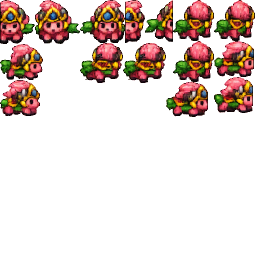
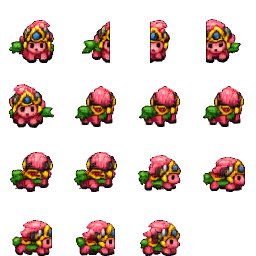
skin thu cuoi: luoi co dinh de du lieu frame khong bao gio doi nua
Anh chup cho thay hai con nam canh nhau trong mot khung chu nhat: client cat
mot vung qua lon tren atlas, tuc du lieu frame CU (o to, vi tri cu) ghep voi
anh MOI. Tang ALL_PART_EFF chi tu het han sau 200s khong ve nen dang nhap lai
nhanh la con giu du lieu cu.

Khong the bat nguoi choi cho 200s moi lan sua sprite, nen chuyen cach xep:
moi anh con chiem tron mot o 64x64 tren luoi 4x4 co dinh, dx = -32, dy = -64 +
{10, 8, 4} — toan hang so. Nho vay file du lieu frame giong nhau TUNG BYTE giua
ca 5 skin va giua moi lan lam lai sprite, du lieu cu con sot cung vo hai.

  md5sum map/d_effect/159 197 198 199 212 -> trung het

Ket hop voi goi -51 may chu tu day o commit truoc, tu gio doi sprite chi can
dang nhap lai. Rieng LAN NAY thi du lieu co doi (chuyen sang luoi moi) nen van
phai tat han app mot lan cuoi, hoac cho 4 phut roi vao lai.

Gia phai tra: con thu bi gioi han trong 64x64, va client blit tron o nen ve ca
phan trong suot — khong dang ke.

Khong sua file nao trong src/ nen jar giu nguyen.

diff --git a/tools/TaoEffThuCuoi.java b/tools/TaoEffThuCuoi.java
@@ -71,8 +71,17 @@ public class TaoEffThuCuoi {
     private static final int SO_GOC = 5;
     /** Toa do anh con luu bang byte khong dau nen atlas toi da 256x256. */
     private static final int ATLAS = 256;
-    /** Ti le chieu cao ma con thu tho xuong duoi toa do nhan vat: xuong, len, ngang. */
-    private static final double[] TI_LE_THO_XUONG = {0.22, 0.19, 0.10};
+    /** Canh mot o trong luoi co dinh, 4 cot x 4 dong = 256x256, du cho 15 anh. */
+    private static final int O = 64;
+    private static final int SO_COT = ATLAS / O;
+    /**
+     * So diem con thu tho xuong duoi toa do nhan vat: xuong, len, ngang.
+     *
+     * PHAI la hang so, khong duoc tinh theo chieu cao anh — xem giai thich o LUOI CO DINH.
+     * Ba so nay lay tu do dac linh thu that: Rong Bang tho xuong +18 / +24 / +5, heo bang
+     * +7 / +4 / +5.
+     */
+    private static final int[] THO_XUONG = {10, 8, 4};
 
     public static void main(final String[] args) throws Exception {
         if (args.length < 2) {
@@ -180,12 +189,12 @@ public class TaoEffThuCuoi {
         }
 
         // MOT co chuan cho CA 5 skin: thu nho sao cho frame cao nhat dung bang --cao.
-        // Neu 15 anh khong xep vua 256x256 thi ha dan cho vua, va in ra de biet.
+        // Frame nao vuot o 64x64 thi ha ti le cho vua.
         double tiLe = (double) caoDich / caoNhat;
-        BufferedImage[] anh = null;
-        int[][] oAnh = null;
+        BufferedImage[] anh;
         while (true) {
             anh = new BufferedImage[3 * SO_GOC];
+            int vuot = 0;
             for (int nhom = 0; nhom < 3; nhom++) {
                 for (int f = 0; f < SO_GOC; f++) {
                     final int[] k = khung[nhom][f];
@@ -195,14 +204,14 @@ public class TaoEffThuCuoi {
                     // luu san phai nhin sang trai.
                     if (lat && nhom == 2) nho = latNgang(nho);
                     if (damVien > 0) veVien(nho, damVien);
+                    if (nho.getWidth() > O || nho.getHeight() > O) vuot++;
                     anh[nhom * SO_GOC + f] = nho;
                 }
             }
-            oAnh = xepAtlas(anh);
-            if (oAnh != null) break;
+            if (vuot == 0) break;
             tiLe *= 0.96;
             if (tiLe < 0.02) {
-                System.out.println("Khong xep noi vao " + ATLAS + "x" + ATLAS);
+                System.out.println("Khong nhet noi vao o " + O + "x" + O);
                 return;
             }
         }
@@ -214,10 +223,34 @@ public class TaoEffThuCuoi {
             rongThuc = Math.max(rongThuc, a.getWidth());
         }
 
+        // ================= LUOI CO DINH =================
+        // Anh con KHONG duoc xep khit theo kich thuoc that, ma moi anh chiem tron mot o
+        // 64x64 co dinh tren luoi 4x4, va dx/dy la hang so. Nho vay file du lieu frame
+        // GIONG NHAU TUNG BYTE giua ca 5 skin va giua moi lan lam lai sprite.
+        //
+        // Ly do: client co ba tang dem voi ba luat xoa khac nhau —
+        //   ALL_DATA_EFF (byte du lieu)  ghi lai moi lan dang nhap  -> luon moi
+        //   ALL_PART_EFF (da phan tich)  xoa khi ranh qua 200s      -> co the con cu
+        //   listImgIcon  (anh png)       xoa khi bang > 100 muc VA ranh qua 120s
+        // Truoc day moi lan doi sprite la doi luon kich thuoc va vi tri o, nen neu client
+        // con giu ALL_PART_EFF cu thi no cat mot vung khac han tren anh moi -> hien ra hai
+        // ba con chong len nhau trong mot khoi chu nhat. Voi luoi co dinh thi du lieu cu va
+        // moi khong khac gi nhau, tang dem do het gay hai vinh vien; con tang anh thi may
+        // chu tu day xuong (DataGame.taoGoiAnhDynamicEffect).
+        //
+        // Gia phai tra: con thu bi gioi han trong 64x64, va client blit tron o nen phan
+        // trong suot cung duoc ve — khong dang ke.
         final BufferedImage atlas = new BufferedImage(ATLAS, ATLAS, BufferedImage.TYPE_INT_ARGB);
         final Graphics2D g = atlas.createGraphics();
         for (int i = 0; i < anh.length; i++) {
-            if (anh[i] != null) g.drawImage(anh[i], oAnh[i][0], oAnh[i][1], null);
+            if (anh[i] == null) continue;
+            final int nhom = i / SO_GOC, f = i % SO_GOC;
+            final int ox = (i % SO_COT) * O, oy = (i / SO_COT) * O;
+            // Can giua o theo be ngang. Theo chieu doc: vach dat cua hang nam dung o day
+            // o, con tung frame giu nguyen do nhun len xuong tu nhien cua no.
+            final int caoTrenVach = (int) Math.round((mocY[nhom] - khung[nhom][f][3]) * tiLe);
+            g.drawImage(anh[i], ox + (O - anh[i].getWidth()) / 2,
+                    oy + O - caoTrenVach - anh[i].getHeight(), null);
         }
         g.dispose();
         ImageIO.write(atlas, "png", new File("map/d_effect/" + id + ".png"));
@@ -227,35 +260,30 @@ public class TaoEffThuCuoi {
         dos.writeByte(anh.length);
         for (int i = 0; i < anh.length; i++) {
             dos.writeByte(i);
-            dos.writeByte(oAnh[i][0]);
-            dos.writeByte(oAnh[i][1]);
-            dos.writeByte(oAnh[i][2]);
-            dos.writeByte(oAnh[i][3]);
+            dos.writeByte((i % SO_COT) * O);
+            dos.writeByte((i / SO_COT) * O);
+            dos.writeByte(O);
+            dos.writeByte(O);
         }
         dos.writeShort(3 * SO_SLOT);
         for (int nhom = 0; nhom < 3; nhom++) {
             for (int slot = 0; slot < SO_SLOT; slot++) {
                 final int f = slot < SO_GOC ? slot : slot - SO_GOC;
-                final int[] k = khung[nhom][f];
                 final int idAnh = nhom * SO_GOC + f;
-                if (k == null || anh[idAnh] == null) {
+                if (khung[nhom][f] == null || anh[idAnh] == null) {
                     dos.writeByte(0);
                     continue;
                 }
                 dos.writeByte(1);
-                // Can giua theo be ngang anh da thu nho, khong tinh lai tu anh goc:
-                // client lat anh bang num = -(dx + w), chi dung -w/2 thi hai huong moi
-                // trung khop tuyet doi.
-                dos.writeShort(-anh[idAnh].getWidth() / 2);
-                // Day con thu phai THO XUONG DUOI toa do nhan vat, khong duoc dung ngay
-                // tai do. Client nang nhan vat len khi cuoi (dy_horse_tool, Rong Bang la
-                // -22 khi nhin truoc) nen duoi chan nhan vat phai con than va chan con
-                // thu, khong thi nhin nhu nguoi dung canh con thu chu khong phai ngoi
-                // tren. Do tren linh thu that: Rong Bang tho xuong +18 / +24 / +5 (nhin
-                // truoc / sau / ngang, tuc 27% / 28% / 7% chieu cao), heo bang +7 / +4 /
-                // +5 (17% / 10% / 14%). Lay khoang giua cua hai con.
-                dos.writeShort((int) Math.round((k[1] - mocY[nhom]) * tiLe)
-                        + (int) Math.round(TI_LE_THO_XUONG[nhom] * caoThuc));
+                // dx = -O/2: can giua o. Dung dung nua o thi client lat anh cho huong
+                // phai bang num = -(dx + w) cung ra -O/2, hai ben trung khop tuyet doi.
+                dos.writeShort(-O / 2);
+                // Day o nam duoi toa do nhan vat THO_XUONG diem. Con thu phai tho xuong
+                // duoi chan nhan vat, khong duoc dung ngay tai do: client nang nhan vat
+                // len khi cuoi (dy_horse_tool, Rong Bang -22 khi nhin truoc) nen duoi chan
+                // phai con than va chan con thu, khong thi nhin nhu nguoi dung canh con
+                // thu chu khong phai ngoi tren.
+                dos.writeShort(-O + THO_XUONG[nhom]);
                 dos.writeByte(idAnh);
                 dos.writeByte(0);   // flip: client tu lat khi di sang phai
                 dos.writeByte(0);   // onTop = 0 -> nam trong danh sach ve sau cung
@@ -274,13 +302,10 @@ public class TaoEffThuCuoi {
         try (FileOutputStream fo = new FileOutputStream(new File("map/d_effect/" + id))) {
             fo.write(bos.toByteArray());
         }
-        System.out.println("Xong: d_effect/" + id + ".png (" + ATLAS + "x" + ATLAS + ", "
-                + anh.length + " anh con, to nhat " + rongThuc + "x" + caoThuc + ") + d_effect/"
-                + id + " (" + bos.size() + " byte, 21 frame), ti le "
-                + String.format("%.3f", tiLe) + ", tho xuong "
-                + Math.round(TI_LE_THO_XUONG[0] * caoThuc) + "/"
-                + Math.round(TI_LE_THO_XUONG[1] * caoThuc) + "/"
-                + Math.round(TI_LE_THO_XUONG[2] * caoThuc)
+        System.out.println("Xong: d_effect/" + id + ".png (" + ATLAS + "x" + ATLAS + ", luoi "
+                + SO_COT + "x" + SO_COT + " o " + O + ", con thu to nhat " + rongThuc + "x"
+                + caoThuc + ") + d_effect/" + id + " (" + bos.size()
+                + " byte, 21 frame), ti le " + String.format("%.3f", tiLe)
                 + " -> id gui client = " + (8700 + id));
     }
 
@@ -445,46 +470,4 @@ public class TaoEffThuCuoi {
         return xoa;
     }
 
-    /**
-     * Xep cac anh vao atlas ATLAS x ATLAS theo duong chan troi (skyline): moi cot giu
-     * do cao dang dung, dat anh vao cho nao ha thap nhat. Tra ve {x, y, w, h} cua tung
-     * anh, null neu khong vua.
-     *
-     * Khong dung luoi o deu vi frame nhin ngang rong hon han frame nhin truoc, chia deu
-     * se bo trong rat nhieu cho. Cung khong dung ke tang vi 15 anh gan bang chieu cao
-     * nhau thi chi ke duoc 4 tang, du duoi tang van con khoang trong. Xep kieu chan troi
-     * nhet duoc anh thap vao cho trong do -> con thu to hon dang ke voi cung mot atlas.
-     */
-    private static int[][] xepAtlas(final BufferedImage[] anh) {
-        final Integer[] thuTu = new Integer[anh.length];
-        for (int i = 0; i < anh.length; i++) thuTu[i] = i;
-        java.util.Arrays.sort(thuTu, (a, b) -> {
-            final int ha = anh[a] == null ? 0 : anh[a].getHeight();
-            final int hb = anh[b] == null ? 0 : anh[b].getHeight();
-            return hb - ha;
-        });
-        final int[] chanTroi = new int[ATLAS];
-        final int[][] o = new int[anh.length][];
-        for (final int i : thuTu) {
-            if (anh[i] == null) {
-                o[i] = new int[]{0, 0, 1, 1};
-                continue;
-            }
-            final int w = anh[i].getWidth(), h = anh[i].getHeight();
-            if (w > ATLAS) return null;
-            int datX = -1, datY = Integer.MAX_VALUE;
-            for (int x = 0; x + w <= ATLAS; x++) {
-                int y = 0;
-                for (int k = x; k < x + w; k++) y = Math.max(y, chanTroi[k]);
-                if (y < datY) {
-                    datY = y;
-                    datX = x;
-                }
-            }
-            if (datX < 0 || datY + h > ATLAS) return null;
-            o[i] = new int[]{datX, datY, w, h};
-            for (int k = datX; k < datX + w; k++) chanTroi[k] = datY + h;
-        }
-        return o;
-    }
 }
